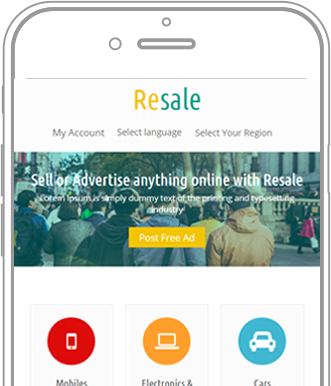
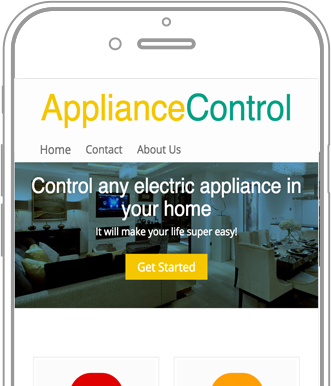
made design changes and text changes

diff --git a/index.html b/index.html
@@ -34,7 +34,8 @@
           <a href="index.html"><span>Appliance</span>Control</a>
         </div>
         <div class="header-right">
-          <a class="account" href="login.html">Home</a>
+          <a class="account" href="#">Home</a>
+          <a href="#contact"><span class="active uls-trigger">Contact</span></a>
           <span class="active uls-trigger">About Us</span>
         </div>
       </div>
@@ -43,13 +44,13 @@
       <div class="container">
         <h1>Control any   <span class="segment-heading"> electric appliance </span> in your home</h1>
         <p>It will make your life super easy!  </p>
-        <a href="post-ad.html">Get Started</a>
+        <a href="#switch-container">Get Started</a>
       </div>
     </div>
     <!-- content-starts-here -->
     <div class="content">
       <div class="categories">
-        <div class="container">
+        <div class="container" id="switch-container">
           <form name="applianceForm" method="post" action="/setstatus">
             <div class="col-md-3 focus-grid">
               <div class="focus-border">
@@ -194,8 +195,8 @@
             <a href="mobileapp.html"><img src="images/app.png" alt=""></a>
           </div>
           <div class="col-md-7 app-right">
-            <h3>Appliance Control App is the <span>Easiest</span> way for Selling and buying second-hand goods</h3>
-            <p>Lorem ipsum dolor sit amet, consectetur adipiscing elit. Aliquam auctor Sed bibendum varius euismod. Integer eget turpis sit amet lorem rutrum ullamcorper sed sed dui. vestibulum odio at elementum. Suspendisse et condimentum nibh.</p>
+            <h3>Appliance Control App is the <span>Scalable</span> app for controlling all of your appliances</h3>
+            <p>You can either manually control your appliance or set the app to control it automatically. It will learn from your control history.</p>
             <div class="app-buttons">
               <div class="app-button">
                 <a href="#"><img src="images/1.png" alt=""></a>
@@ -217,46 +218,45 @@
           <div class="foo-grids">
             <div class="col-md-3 footer-grid">
               <h4 class="footer-head">Who We Are</h4>
-              <p>It is a long established fact that a reader will be distracted by the readable content of a page when looking at its layout.</p>
-              <p>The point of using Lorem Ipsum is that it has a more-or-less normal letters, as opposed to using 'Content here.</p>
+              <p>We are a group of creative professionals focused on combining great design ideas with the best user experience development. We love design and we love coding, allowing us to integrate both disciplines into our creative process. This ability enables us to pursue unique and beautiful results that will have a positive impact on your brand, project and website.</p>
             </div>
             <div class="col-md-3 footer-grid">
               <h4 class="footer-head">Help</h4>
               <ul>
-                <li><a href="howitworks.html">How it Works</a></li>
-                <li><a href="sitemap.html">Sitemap</a></li>
-                <li><a href="faq.html">Faq</a></li>
-                <li><a href="feedback.html">Feedback</a></li>
-                <li><a href="contact.html">Contact</a></li>
-                <li><a href="typography.html">Shortcodes</a></li>
+                <li><a href="#">How it Works</a></li>
+                <li><a href="#">Sitemap</a></li>
+                <li><a href="#">Faq</a></li>
+                <li><a href="#">Feedback</a></li>
+                <li><a href="#">Contact</a></li>
+                <li><a href="#">Shortcodes</a></li>
               </ul>
             </div>
             <div class="col-md-3 footer-grid">
               <h4 class="footer-head">Information</h4>
               <ul>
-                <li><a href="regions.html">Locations Map</a></li>
-                <li><a href="terms.html">Terms of Use</a></li>
-                <li><a href="popular-search.html">Popular searches</a></li>
-                <li><a href="privacy.html">Privacy Policy</a></li>
+                <li><a href="#">Locations Map</a></li>
+                <li><a href="#">Terms of Use</a></li>
+                <li><a href="#">Popular searches</a></li>
+                <li><a href="#">Privacy Policy</a></li>
               </ul>
             </div>
-            <div class="col-md-3 footer-grid">
+            <div class="col-md-3 footer-grid" id="contact">
               <h4 class="footer-head">Contact Us</h4>
-              <span class="hq">Our headquarters</span>
+              <span class="hq">Ardumed</span>
               <address>
                 <ul class="location">
                   <li><span class="glyphicon glyphicon-map-marker"></span></li>
-                  <li>CENTER FOR FINANCIAL ASSISTANCE TO DEPOSED NIGERIAN ROYALTY</li>
+                  <li>Swarna Silicone Castle, Whitefield, Bangalore</li>
                   <div class="clearfix"></div>
                 </ul>
                 <ul class="location">
                   <li><span class="glyphicon glyphicon-earphone"></span></li>
-                  <li>+0 561 111 235</li>
+                  <li>+91 8124400880</li>
                   <div class="clearfix"></div>
                 </ul>
                 <ul class="location">
                   <li><span class="glyphicon glyphicon-envelope"></span></li>
-                  <li><a href="mailto:info@example.com">mail@example.com</a></li>
+                  <li><a href="mailto:himanshusingh2407@gmail.com">himanshusingh2407@gmail.com</a></li>
                   <div class="clearfix"></div>
                 </ul>
               </address>
@@ -268,7 +268,7 @@
       <div class="footer-bottom text-center">
         <div class="container">
           <div class="footer-logo">
-            <a href="index.html"><span>Appliance</span>Control</a>
+            <a href="#"><span>Appliance</span>Control</a>
           </div>
           <div class="footer-social-icons">
             <ul>

diff --git a/css/style.css b/css/style.css
@@ -1151,7 +1151,7 @@ ul.location li:nth-child(2) {
     position: absolute;
     top: 50%;
     left: 0;
-    width: 44%;
+    width: 36%;
     height: 1px;
     background: #545556;
 }
@@ -1160,7 +1160,7 @@ ul.location li:nth-child(2) {
     position: absolute;
     top: 50%;
     right: 0;
-    width: 44%;
+    width: 36%;
     height: 1px;
     background: #545556;
 }
